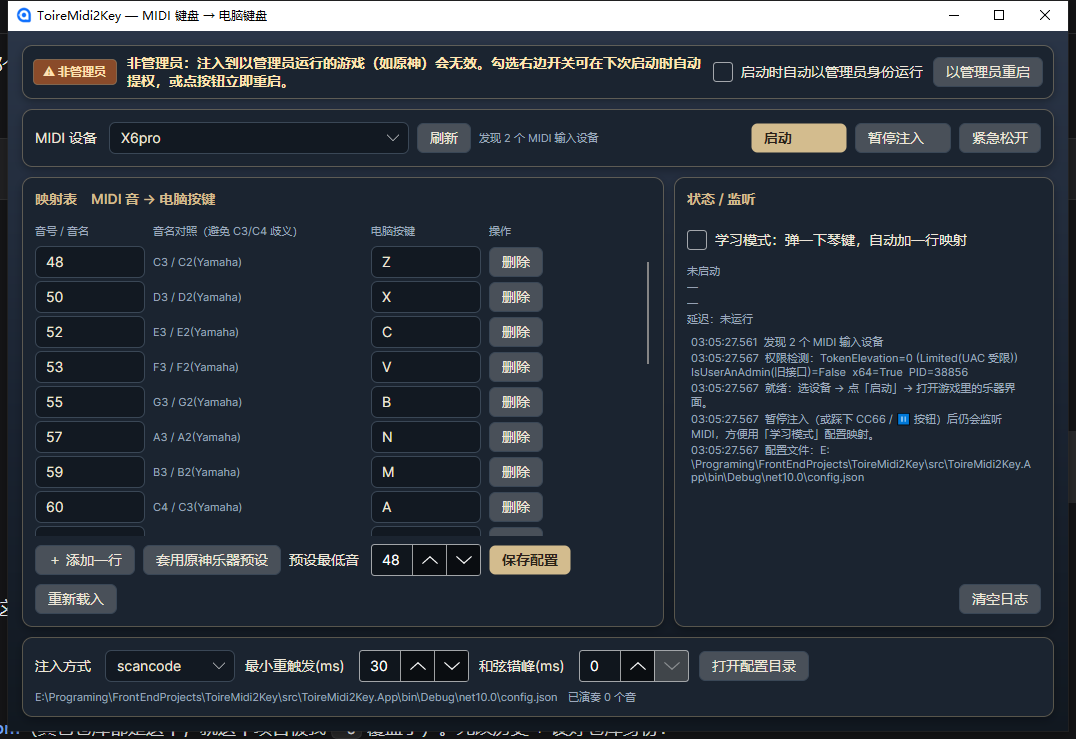
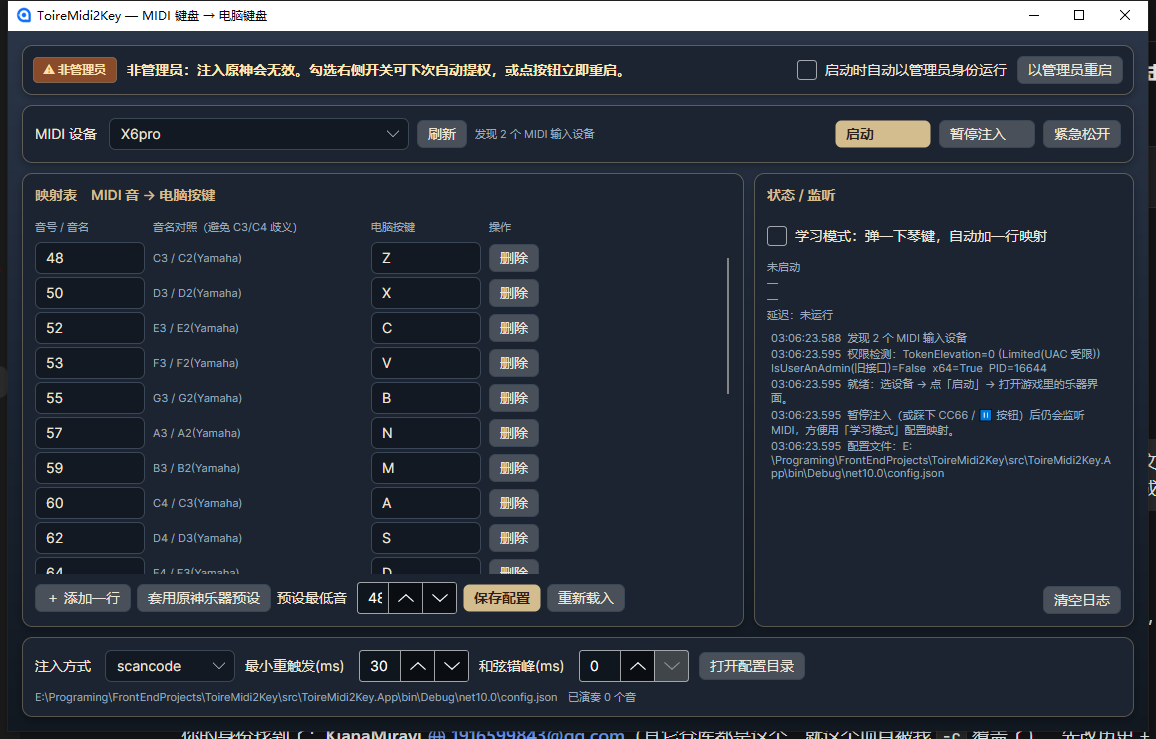
UI 微调：按钮内边距收窄、默认窗口加宽，底部按钮行不再换行；精简权限提示文案

diff --git a/src/ToireMidi2Key.App/ViewModels/MainViewModel.cs b/src/ToireMidi2Key.App/ViewModels/MainViewModel.cs
@@ -77,7 +77,7 @@ public partial class MainViewModel : ViewModelBase, IDisposable
         IsAdmin = CoreInfo.IsElevated();
         AdminHint = IsAdmin
             ? "已获得管理员权限，注入通道就绪。"
-            : "非管理员：注入到以管理员运行的游戏（如原神）会无效。勾选右边开关可在下次启动时自动提权，或点按钮立即重启。";
+            : "非管理员：注入原神会无效。勾选右侧开关可下次自动提权，或点按钮立即重启。";
 
         _bridge.Log += OnBridgeLog;
         _bridge.StateChanged += OnBridgeStateChanged;
